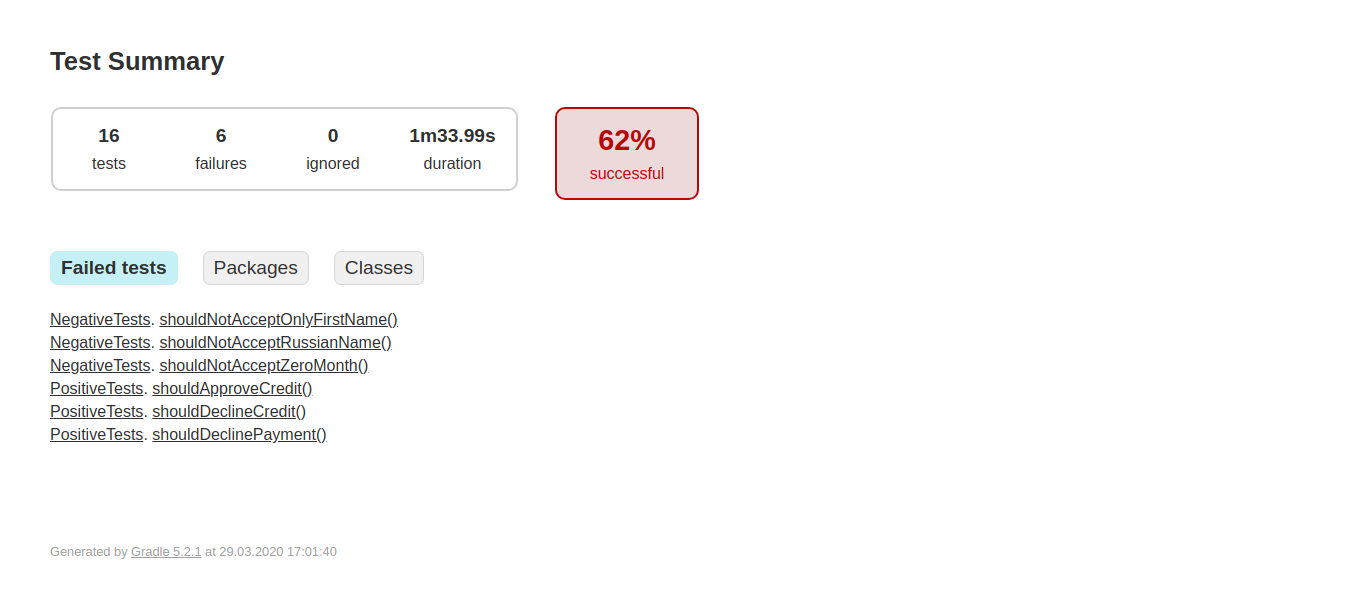
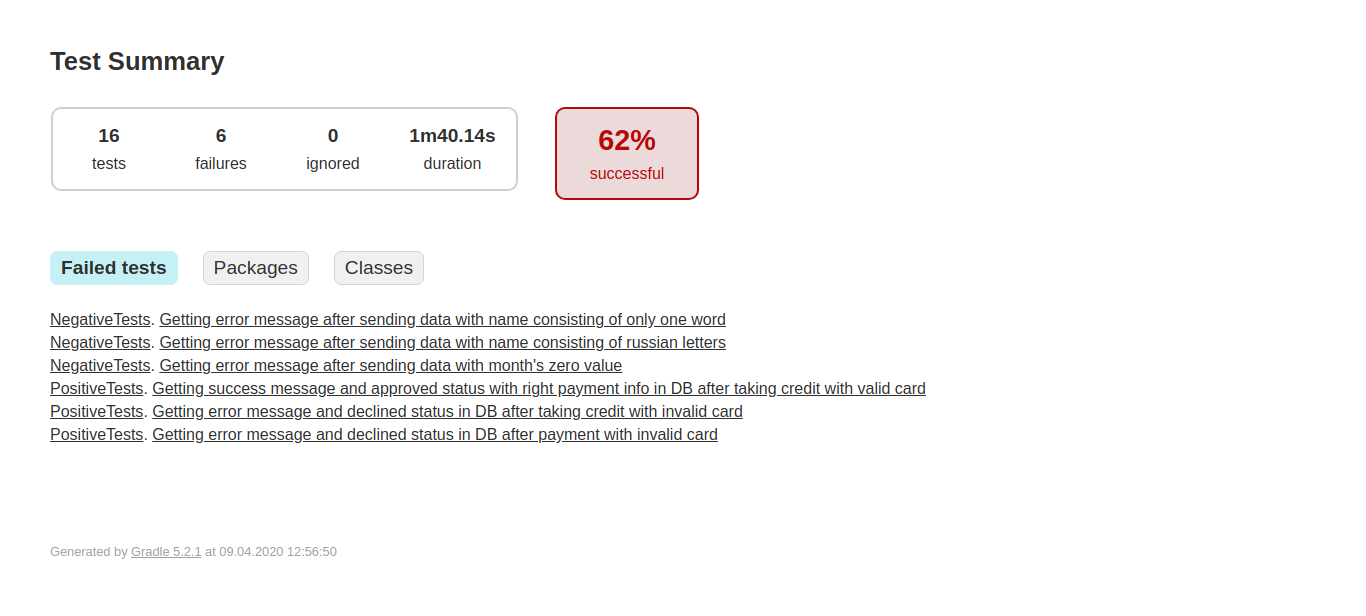
Docs updated

Changed region(s): [[0.0922, 0.4935, 0.6764, 0.7403], [0.3075, 0.2159, 0.369, 0.2468], [0.2152, 0.8945, 0.246, 0.9253]]

diff --git a/src/test/java/tests/PositiveTests.java b/src/test/java/tests/PositiveTests.java
@@ -2,7 +2,6 @@ package tests;
 
 import data.DBUtils;
 import data.DataHelper;
-import org.junit.jupiter.api.BeforeAll;
 import org.junit.jupiter.api.DisplayName;
 import org.junit.jupiter.api.Test;
 import pages.BuyTripPage;
@@ -12,6 +11,7 @@ import java.sql.SQLException;
 import static org.junit.jupiter.api.Assertions.*;
 
 public class PositiveTests {
+    DBUtils dbUtils = new DBUtils();
     BuyTripPage page = new BuyTripPage();
 
     @Test
@@ -20,7 +20,7 @@ public class PositiveTests {
         page.openSUT();
         page.FillTheFields(BuyTripPage.payWithCardButton, DataHelper.dataWithValidCard);
         page.checkSuccessMessage();
-        assertEquals(DBUtils.getPaymentStatus(), DataHelper.APPROVED_STATUS);
+        assertEquals(dbUtils.getPaymentStatus(), DataHelper.APPROVED_STATUS);
     }
 
     @Test
@@ -29,7 +29,7 @@ public class PositiveTests {
         page.openSUT();
         page.FillTheFields(BuyTripPage.payWithCardButton, DataHelper.dataWithInvalidCard);
         page.checkErrorMessage();
-        assertNotEquals(DBUtils.getPaymentStatus(), DataHelper.APPROVED_STATUS);
+        assertNotEquals(dbUtils.getPaymentStatus(), DataHelper.APPROVED_STATUS);
     }
 
     @Test
@@ -38,8 +38,8 @@ public class PositiveTests {
         page.openSUT();
         page.FillTheFields(BuyTripPage.payWithCreditButton, DataHelper.dataWithValidCard);
         page.checkSuccessMessage();
-        assertEquals(DBUtils.getCreditStatus(), DataHelper.APPROVED_STATUS);
-        assertNotEquals(DBUtils.getOrderInformation(), null);
+        assertEquals(dbUtils.getCreditStatus(), DataHelper.APPROVED_STATUS);
+        assertNotEquals(dbUtils.getOrderInformation(), null);
     }
 
     @Test
@@ -48,6 +48,6 @@ public class PositiveTests {
         page.openSUT();
         page.FillTheFields(BuyTripPage.payWithCreditButton, DataHelper.dataWithInvalidCard);
         page.checkErrorMessage();
-        assertNotEquals(DBUtils.getPaymentStatus(), DataHelper.APPROVED_STATUS);
+        assertNotEquals(dbUtils.getPaymentStatus(), DataHelper.APPROVED_STATUS);
     }
 }

diff --git a/src/test/java/data/DBUtils.java b/src/test/java/data/DBUtils.java
@@ -9,7 +9,7 @@ import java.sql.SQLException;
 
 public class DBUtils {
 
-    public static String getPaymentStatus() throws SQLException {
+    public String getPaymentStatus() throws SQLException {
         val codesSQL = "SELECT status FROM payment_entity ORDER BY created DESC LIMIT 1;";
         val runner = new QueryRunner();
         try (val conn = DriverManager.getConnection(System.getProperty("db.url"), System.getProperty("db.user"), System.getProperty("db.password"));){
@@ -17,7 +17,7 @@ public class DBUtils {
         }
     }
 
-    public static String getCreditStatus() throws SQLException {
+    public String getCreditStatus() throws SQLException {
         val codesSQL = "SELECT status FROM credit_request_entity ORDER BY created DESC LIMIT 1;";
         val runner = new QueryRunner();
         try (val conn = DriverManager.getConnection(System.getProperty("db.url"), System.getProperty("db.user"), System.getProperty("db.password"));){
@@ -25,7 +25,7 @@ public class DBUtils {
         }
     }
 
-    public static String getOrderInformation() throws SQLException {
+    public String getOrderInformation() throws SQLException {
         val codesSQL = "SELECT credit_id FROM order_entity ORDER BY created DESC LIMIT 1;";
         val runner = new QueryRunner();
         try (val conn = DriverManager.getConnection(System.getProperty("db.url"), System.getProperty("db.user"), System.getProperty("db.password"));){

diff --git a/docs/Summary.md b/docs/Summary.md
@@ -1,3 +1,8 @@
 ## Итоги
 
-Был запланирован объём работы в виде составления плана тестирования, подготовки окружения, написания кода и тестов, а также составления отчётности. Считаю, что вся запланированная работа выполнена. Был риск не учесть заранее некоторые сценарии. Риск в процессе работы оправдался, так как пришлось дописывать некоторые сценарии. Суммарно времени ушло примерно столько, сколько планировалось, но написание тестов и кода немного затянулось из-за трудностей реализации некоторых методов. Например, по началу было не ясно, каким образом искать элементы по css-локатору. Также необходимо было выяснить, почему некоторые методы выбрасывали не то исключение, которое от них ожидалось. 
+Был запланирован объём работы в виде составления плана тестирования, подготовки окружения, написания кода и тестов, а также составления отчётности. Считаю, что вся запланированная работа выполнена. Был риск не учесть заранее некоторые сценарии. Риск в процессе работы оправдался, так как пришлось дописывать некоторые сценарии. Суммарно времени ушло примерно столько, сколько планировалось, но написание тестов и кода немного затянулось из-за трудностей реализации некоторых методов. Например, по началу было не ясно, каким образом искать элементы по css-локатору. Также необходимо было выяснить, почему некоторые методы выбрасывали не то исключение, которое от них ожидалось.
+
+### Upd
+
+После первой проверки работы необходимо было внести множество изменений.
+Была изменена структура проекта, добавлены новые классы, изменены названия и сигнатуры методов. Код оптимизирован: один метод с параметрами, отвечающий за заполнение полей, заменил множество похожих друг на друга методов. Тесты стали состоять целиком из методов, благодаря чему их стало удобно читать и понимать алгоритм их работы. К тестам добавлены аннотации, которые позволяют отображить их названия в отчётности в удобном для чтения формате. Все параметры, - адрес запущенного приложения, строка подключения к БД, реквизиты БД, - теперь передаются через командную строку, а не жёстко зашиты в коде. Новая версия кода гарантирует поддержку работы с двумя БД - MySQL и PostgreSQL. Окружение стало проще настраивать - теперь для его работы необходимо вводить меньшее количество команд, так как теперь контейнеры Docker, содержащие образы MySQL, PostgreSQL и симулятора платежей, запускаются одновременно.

diff --git a/README.md b/README.md
@@ -2,7 +2,7 @@
 
 **Условия**
 
-На тестируемой машине установлен Docker, Gradle, MySQL.
+На тестируемой машине установлен Docker, Gradle, MySQL, PostgreSQL.
 
 **Шаги**
 
@@ -17,29 +17,48 @@ git clone https://github.com/alexey-olfert/netology-diploma.git
 docker stop $(docker ps -q)
 docker rm $(docker ps -qa)
 ```
-5. Остановить сервис MySQL, если он запущен:
-```
-sudo service mysql stop
-```
-6. Запустить контейнер Docker:
+5. Запустить контейнер Docker:
 ```
 docker-compose up -d --force-recreate
 ```
-7. Убедиться в том, что сервис MySQL запустился, выполнив вход:
-```
-docker-compose exec mysql mysql -u app -p app
-```
-8. Выйти из командной строки MySQL, выполнив запрос `exit;`
-9. Перейти в директорию `gate-simulator/`, расположенную в корне проекта;
-10. Запустить симулятор командой `npm start`
-11. Перейти на новую вкладку терминала;
-12. Вернуться в корень проекта;
-13. Запустить SUT:
-```
-java -jar aqa-shop.jar
-```
-14. Перейти на новую вкладку терминала;
-15. Запустить тесты командой `./gradlew test`
+7. Убедиться в том, что сервис БД запустился, выполнив вход;
+
+    * Для MySQL:
+    ```
+    docker-compose exec mysql mysql -u app -p app
+    ```
+    * Для PostgreSQL:
+    ```
+    docker-compose exec postgres psql -U app -W postgres
+    ```
+
+
+7. Выйти из БД, выполнив запрос `exit;` (для MySQL) либо `exit` (для PostgreSQL)
+8. Запустить SUT.
+
+    * Для MySQL:
+    ```
+    java -jar -Dspring.datasource.url=jdbc:mysql://localhost:3306/app aqa-shop.jar
+    ```
+    * Для PostgreSQL:
+
+    ```
+    java -jar -Dspring.datasource.url=jdbc:postgresql://localhost:5432/postgres aqa-shop.jar
+
+    ```    
+
+14. Перейти на новую вкладку терминала
+15. Запустить тесты
+
+    * Для MySQL:
+    ```
+    ./gradlew test -Dsut.url=http://localhost:8080 -Ddb.url=jdbc:mysql://localhost:3306/app -Ddb.user=app -Ddb.password=pass
+    ```
+
+    * Для PostgreSQL:
+    ```
+    ./gradlew test -Dsut.url=http://localhost:8080 -Ddb.url=jdbc:postgresql://localhost:5432/postgres -Ddb.user=app -Ddb.password=pass
+    ```
 
 ## Отчётность
 
